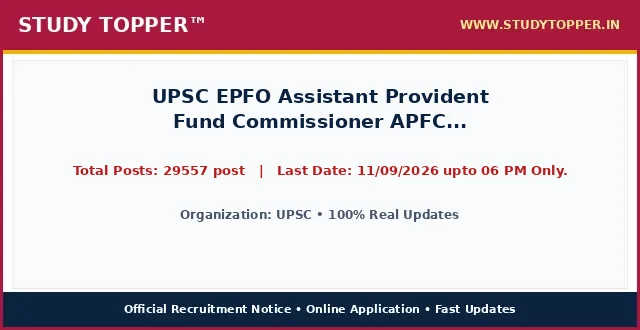
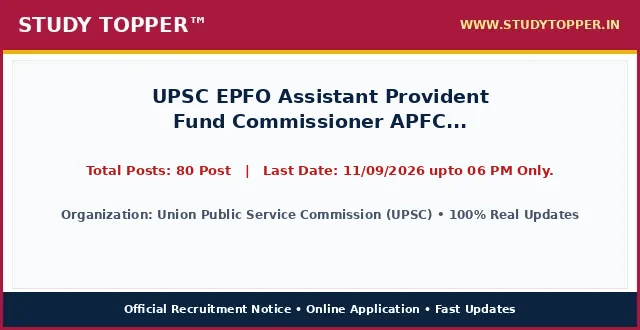
chore(lifecycle): daily auto-sort vacancies and update active dates

Changed region(s): [[0.125, 0.4848, 0.9062, 0.5455], [0.0938, 0.6364, 0.9062, 0.6667]]

diff --git a/pages/upsc-epfo-apfc-august26.html b/pages/upsc-epfo-apfc-august26.html
@@ -987,12 +987,12 @@ ul.wp-block-latest-posts a:hover {
 <main class="site-main" id="main">
 <div class="gb-container gb-container-b39c368c">
 <h1 class="gb-headline gb-headline-e52a0102 gb-headline-text" style="font-size: 22px; font-weight: 700; color: #0000cd; text-align: left; margin: 8px 0 4px 0; line-height: 1.3; width: 100%; font-family: '-apple-system, BlinkMacSystemFont, 'Segoe UI', Roboto, 'Helvetica Neue', Arial, sans-serif', Times, serif, Hind, sans-serif;">UPSC EPFO Assistant Provident Fund Commissioner APFC Recruitment 2026 Apply Online for 80 Post</h1>
-<div class="gb-container gb-container-659bd175"><p style="color: #cd0808; font-weight: 700; font-size: 15px; margin: 2px 0 7px 0; text-align: left; font-family: '-apple-system, BlinkMacSystemFont, 'Segoe UI', Roboto, 'Helvetica Neue', Arial, sans-serif', Times, serif, Hind, sans-serif;">Post Date: August 22, 2026 11:50 AM</p></div>
-<p class="gb-headline gb-headline-550ae316 short_Details gb-headline-text" style="width: 100%; max-width: 100%; font-size: 16.8px; line-height: 1.55; color: #000000; text-align: justify; text-justify: inter-word; margin: 8px 0 14px 0; display: block; font-family: '-apple-system, BlinkMacSystemFont, 'Segoe UI', Roboto, 'Helvetica Neue', Arial, sans-serif', Times, serif, Hind, sans-serif;"><strong style="color: #0000cd;">UPSC</strong> has officially published the recruitment notice <strong style="color: #cd0808;">UPSC EPFO Assistant Provident Fund Commissioner APFC Recruitment 2026 Apply Online for 80 Post</strong> under notification number Official Advt 2026. Online applications are invited for 29557 post across multiple departments and cadre positions. Interested candidates possessing the requisite educational qualifications and falling between 18 Years to 40 Years can complete their online registration before the application deadline of 11/09/2026 upto 06 PM Only.. Applicants should read the eligibility criteria, category reservation rules, and exam scheme thoroughly before submitting applications.</p>
+<div class="gb-container gb-container-659bd175"><p style="color: #cd0808; font-weight: 700; font-size: 15px; margin: 2px 0 7px 0; text-align: left; font-family: '-apple-system, BlinkMacSystemFont, 'Segoe UI', Roboto, 'Helvetica Neue', Arial, sans-serif', Times, serif, Hind, sans-serif;">Post Date: August 22, 2026 12:54 PM</p></div>
+<p class="gb-headline gb-headline-550ae316 short_Details gb-headline-text" style="width: 100%; max-width: 100%; font-size: 16.8px; line-height: 1.55; color: #000000; text-align: justify; text-justify: inter-word; margin: 8px 0 14px 0; display: block; font-family: '-apple-system, BlinkMacSystemFont, 'Segoe UI', Roboto, 'Helvetica Neue', Arial, sans-serif', Times, serif, Hind, sans-serif;"><strong style="color: #0000cd;">Union Public Service Commission (UPSC)</strong> has officially published the recruitment notice <strong style="color: #cd0808;">UPSC EPFO Assistant Provident Fund Commissioner APFC Recruitment 2026 Apply Online for 80 Post</strong> under notification number Official Notification 2026. Online applications are invited for 80 Post across multiple departments and cadre positions. Interested candidates possessing the requisite educational qualifications and falling between 18 Years to 40 Years can complete their online registration before the application deadline of 11/09/2026 upto 06 PM Only.. Applicants should read the eligibility criteria, category reservation rules, and exam scheme thoroughly before submitting applications.</p>
 <div class="gb-container gb-container-9849916c"><div class="social-buttons-compact" style="display: flex; justify-content: flex-start; align-items: center; gap: 10px; margin: 10px 0 16px 0; width: 100%;"><a class="social-btn-compact wa" href="https://whatsapp.com/channel/0029Va9xyz" rel="noopener" style="background-color: #00d084; color: #ffffff; padding: 10px 18px; border-radius: 4px; text-decoration: none; font-weight: bold; font-size: 15.5px; display: inline-flex; align-items: center; justify-content: center; height: auto;" target="_blank">WhatsApp</a><a class="social-btn-compact tg" href="https://t.me/studytopperofficial" rel="noopener" style="background-color: #0088cc; color: #ffffff; padding: 10px 18px; border-radius: 4px; text-decoration: none; font-weight: bold; font-size: 15.5px; display: inline-flex; align-items: center; justify-content: center; height: auto;" target="_blank">Telegram</a></div></div>
 <div class="gb-container gb-container-f58e6ca1" style="border: 2px solid #5b032f; border-radius: 4px; overflow: hidden; margin: 15px 0 20px 0; background-color: #ffffff; width: 100%; box-sizing: border-box;">
 <h2 class="gb-headline gb-headline-2ca5a791 gb-headline-text" style="font-size: 16px; font-weight: 700; text-align: center; color: #ef0303; line-height: 1.3; padding: 6px 4px; margin: 0; background: #ffffff; font-family: '-apple-system, BlinkMacSystemFont, 'Segoe UI', Roboto, 'Helvetica Neue', Arial, sans-serif', Times, serif, Hind, sans-serif;">UPSC EPFO Assistant Provident Fund Commissioner APFC Recruitment 2026 Apply Online for 80 Post &ndash; Latest Details &amp; Updates</h2>
-<h3 class="gb-headline gb-headline-7d5f86e8 gb-headline-text" style="font-size: 16px; font-weight: 600; text-align: center; color: #009703; line-height: 1.25; margin: 0; padding: 2px 4px 6px 4px; background: #ffffff; font-family: '-apple-system, BlinkMacSystemFont, 'Segoe UI', Roboto, 'Helvetica Neue', Arial, sans-serif', Times, serif, Hind, sans-serif;">UPSC : Details &amp; Summary</h3>
+<h3 class="gb-headline gb-headline-7d5f86e8 gb-headline-text" style="font-size: 16px; font-weight: 600; text-align: center; color: #009703; line-height: 1.25; margin: 0; padding: 2px 4px 6px 4px; background: #ffffff; font-family: '-apple-system, BlinkMacSystemFont, 'Segoe UI', Roboto, 'Helvetica Neue', Arial, sans-serif', Times, serif, Hind, sans-serif;">Union Public Service Commission (UPSC) : Details &amp; Summary</h3>
 <p class="gb-headline gb-headline-79adf169 gb-headline-text" style="margin: 0 0 6px 0; font-family: '-apple-system, BlinkMacSystemFont, 'Segoe UI', Roboto, 'Helvetica Neue', Arial, sans-serif', Times, serif, Hind, sans-serif; text-align: center; font-size: 18px; font-weight: 700;"><a href="/" style="color: #0000ff; text-decoration: underline;">StudyTopper.in</a></p>
 
 <style id="st-post-boxes-responsive-css">
@@ -1034,7 +1034,7 @@ ul.wp-block-latest-posts a:hover {
     <div style="background-color: #5b032f; color: #ffffff; padding: 8px 10px; font-size: 20px; font-weight: 700; text-align: center; font-family: '-apple-system, BlinkMacSystemFont, 'Segoe UI', Roboto, 'Helvetica Neue', Arial, sans-serif', Times, serif, Hind, sans-serif;">Application Fee</div>
     <div style="padding: 12px 14px; background-color: #ffffff;">
       <ul style="padding-left: 20px; margin: 0; list-style-type: disc; text-align: left; font-size: 14pt; line-height: 1.6; font-family: '-apple-system, BlinkMacSystemFont, 'Segoe UI', Roboto, 'Helvetica Neue', Arial, sans-serif', Times, serif, Hind, sans-serif;">
-        <li><span style="font-size: 14pt;">General / OBC / EWS : <strong>25/-</strong></span></li><li><span style="font-size: 14pt;">SC / ST / PH : <strong>0/-</strong></span></li>
+        <li><span style="font-size: 14pt;">General / OBC / EWS : <strong>25/-</strong></span></li><li><span style="font-size: 14pt;">SC / ST / PH : <strong>0/-</strong></span></li><li><span style="font-size: 14pt;">Payment Mode : <strong>Pay the Exam Fee Through Online / Offline Fee Mode Only</strong></span></li>
       </ul>
       <div style="margin-top: 10px; font-size: 14pt; line-height: 1.5; color: #000000; border-top: 1px dashed #ccc; padding-top: 8px; font-family: '-apple-system, BlinkMacSystemFont, 'Segoe UI', Roboto, 'Helvetica Neue', Arial, sans-serif', Times, serif, Hind, sans-serif;">
         <strong>Mode of Payment / Access:</strong> Online via Net Banking, Debit Card, Credit Card, UPI or Free Candidate Portal.
@@ -1047,10 +1047,10 @@ ul.wp-block-latest-posts a:hover {
 <div class="st-grid-row" style="display: flex; flex-wrap: wrap; width: 100%; border-top: 2px solid #5b032f; margin: 0; padding: 0; box-sizing: border-box;">
   <!-- Left Col: Age Limits -->
   <div class="st-col-half st-col-border-right" style="box-sizing: border-box; vertical-align: top;">
-    <div style="background-color: #046132; color: #ffffff; padding: 8px 10px; font-size: 17px; font-weight: 700; text-align: center; font-family: '-apple-system, BlinkMacSystemFont, 'Segoe UI', Roboto, 'Helvetica Neue', Arial, sans-serif', Times, serif, Hind, sans-serif;">UPSC : Age Limits As On 01 August 2026</div>
+    <div style="background-color: #046132; color: #ffffff; padding: 8px 10px; font-size: 17px; font-weight: 700; text-align: center; font-family: '-apple-system, BlinkMacSystemFont, 'Segoe UI', Roboto, 'Helvetica Neue', Arial, sans-serif', Times, serif, Hind, sans-serif;">Union Public Service Commission (UPSC) : Age Limits As On 01/08/2026</div>
     <div style="padding: 12px 14px; background-color: #ffffff;">
       <ul style="padding-left: 20px; margin: 0; list-style-type: disc; text-align: left; font-size: 14pt; line-height: 1.6; font-family: '-apple-system, BlinkMacSystemFont, 'Segoe UI', Roboto, 'Helvetica Neue', Arial, sans-serif', Times, serif, Hind, sans-serif;">
-        <li><span style="font-size: 14pt;">Minimum Age : <strong>NA</strong></span></li><li><span style="font-size: 14pt;">Maximum Age : <strong>35 Years</strong></span></li>
+        <li><span style="font-size: 14pt;">Minimum Age : <strong>NA</strong></span></li><li><span style="font-size: 14pt;">Maximum Age : <strong>35 Years</strong></span></li><li><span style="font-size: 14pt;">Age Relaxation : <strong>Age Relaxation Extra as per UPSC EPFO Assistant Provident Fund Commissioner APFC Examination Rules Special Advt. No 52/2026.</strong></span></li>
       </ul>
     </div>
   </div>
@@ -1058,7 +1058,7 @@ ul.wp-block-latest-posts a:hover {
   <div class="st-col-half" style="box-sizing: border-box; vertical-align: top;">
     <div style="background-color: #f53c00; color: #ffffff; padding: 8px 10px; font-size: 20px; font-weight: 700; text-align: center; font-family: '-apple-system, BlinkMacSystemFont, 'Segoe UI', Roboto, 'Helvetica Neue', Arial, sans-serif', Times, serif, Hind, sans-serif;">Total Post</div>
     <div style="padding: 24px 10px; background-color: #ffffff; text-align: center;">
-      <span style="font-size: 28px; font-weight: 800; color: #000000; font-family: '-apple-system, BlinkMacSystemFont, 'Segoe UI', Roboto, 'Helvetica Neue', Arial, sans-serif', Times, serif, Hind, sans-serif;">29557 post</span>
+      <span style="font-size: 28px; font-weight: 800; color: #000000; font-family: '-apple-system, BlinkMacSystemFont, 'Segoe UI', Roboto, 'Helvetica Neue', Arial, sans-serif', Times, serif, Hind, sans-serif;">80 Post</span>
     </div>
   </div>
 </div>
@@ -1073,13 +1073,13 @@ ul.wp-block-latest-posts a:hover {
 <table style="border-collapse: collapse; width: 100%; height: 150px;">
 <tbody>
 <tr style="height: 25px;">
-<td colspan="2" style="width: 50%; text-align: center; height: 25px;"><span style="background-color: #000080; color: #ffffff; font-size: 14pt;"><strong> UPSC : Category Wise Vacancy Details </strong></span></td>
+<td colspan="2" style="width: 50%; text-align: center; height: 25px;"><span style="background-color: #000080; color: #ffffff; font-size: 14pt;"><strong> Union Public Service Commission (UPSC) : Category Wise Vacancy Details </strong></span></td>
 </tr>
 <tr style="height: 25px;">
 <td style="width: 50%; height: 25px; text-align: center;"><span style="font-size: 14pt;"><strong>Category / Particulars</strong></span></td>
 <td style="width: 50%; height: 25px; text-align: center;"><span style="font-size: 14pt;"><strong>Count / Status</strong></span></td>
 </tr>
-<tr><td style="text-align: center;">UR</td><td style="text-align: center; font-weight: normal; color: inherit;">29</td></tr><tr><td style="text-align: center;">OBC</td><td style="text-align: center; font-weight: normal; color: inherit;">18</td></tr><tr><td style="text-align: center;">EWS</td><td style="text-align: center; font-weight: normal; color: inherit;">08</td></tr><tr><td style="text-align: center;">SC</td><td style="text-align: center; font-weight: normal; color: inherit;">15</td></tr><tr><td style="text-align: center;">ST</td><td style="text-align: center; font-weight: normal; color: inherit;">10</td></tr><tr><td style="text-align: center;">Total</td><td style="text-align: center; font-weight: bold; color: #ff0000;">80</td></tr>
+<tr><td style="text-align: center;">Total Post</td><td style="text-align: center; font-weight: bold; color: #ff0000;">80</td></tr><tr><td style="text-align: center;">UPSC EPFO APFC Eligibility</td><td style="text-align: center; font-weight: normal; color: inherit;">Bachelor Degree in Any Stream from Any Recognized University in India.</td></tr><tr><td style="text-align: center;">UR</td><td style="text-align: center; font-weight: normal; color: inherit;">29</td></tr><tr><td style="text-align: center;">OBC</td><td style="text-align: center; font-weight: normal; color: inherit;">18</td></tr><tr><td style="text-align: center;">EWS</td><td style="text-align: center; font-weight: normal; color: inherit;">08</td></tr><tr><td style="text-align: center;">SC</td><td style="text-align: center; font-weight: normal; color: inherit;">15</td></tr><tr><td style="text-align: center;">ST</td><td style="text-align: center; font-weight: normal; color: inherit;">10</td></tr><tr><td style="text-align: center;">Total</td><td style="text-align: center; font-weight: bold; color: #ff0000;">80</td></tr>
 </tbody>
 </table>
 <p>&nbsp;</p>
@@ -1105,10 +1105,10 @@ ul.wp-block-latest-posts a:hover {
 <table style="border-collapse: collapse; width: 100%;">
 <tbody>
 <tr>
-<td style="width: 100%; text-align: center;"><span style="background-color: #000080; color: #ffffff; font-size: 14pt; font-weight: bold; display: block; padding: 6px;"> How to Fill UPSC Online Application Form </span></td>
+<td style="width: 100%; text-align: center;"><span style="background-color: #000080; color: #ffffff; font-size: 14pt; font-weight: bold; display: block; padding: 6px;"> How to Fill Union Public Service Commission (UPSC) Online Application Form </span></td>
 </tr>
 <tr>
-<td style="width: 100%;"><ol style="margin:0; padding-left:18px; text-align: left !important; list-style-position: outside !important"><li style="margin-bottom:6px; text-align: left !important;">22/08/2026 to 11/09/2026.</li><li style="margin-bottom:6px; text-align: left !important;">Kindly Check and Collect the All Document – Hand Writing, Eligibility, ID Proof, Address Details, Basic Details.</li><li style="margin-bottom:6px; text-align: left !important;">Kindly Ready Scan Document Related to Recruitment Form – Photo, Sign, ID, Thumb, Proof, Etc.</li><li style="margin-bottom:6px; text-align: left !important;">Before Submit the Application Form Must Check the Preview and All Column Carefully.</li><li style="margin-bottom:6px; text-align: left !important;">If Candidate Required to Paying the Application Fee Must Submit. If You have Not the Required Application Fees Your Form is Not Completed.</li><li style="margin-bottom:6px; text-align: left !important;">Take A Print Out of Final Submitted Form.</li><li style="margin-bottom:6px; text-align: left !important;">Resize candidate photograph and signature accurately using the <a href="https://indtool.in" rel="noopener" target="_blank"><strong>StudyTopper Tools</strong></a> image resizer at indtool.in.</li></ol></td>
+<td style="width: 100%;"><ol style="margin:0; padding-left:18px; text-align: left !important; list-style-position: outside !important"><li style="margin-bottom:6px; text-align: left !important;">Union Public Service Commission (UPSC) Are Issued EPFO APFC Examination 2026. Notification and Invited Online Application Form for the UPSC EPFO Assistant Provident Fund Commissioner APFC Recruitment 2026 Candidate Can Apply Online for</li><li style="margin-bottom:6px; text-align: left !important;">22/08/2026 to 11/09/2026.</li><li style="margin-bottom:6px; text-align: left !important;">Kindly Check and Collect the All Document – Hand Writing, Eligibility, ID Proof, Address Details, Basic Details.</li><li style="margin-bottom:6px; text-align: left !important;">Kindly Ready Scan Document Related to Recruitment Form – Photo, Sign, ID, Thumb, Proof, Etc.</li><li style="margin-bottom:6px; text-align: left !important;">Before Submit the Application Form Must Check the Preview and All Column Carefully.</li><li style="margin-bottom:6px; text-align: left !important;">If Candidate Required to Paying the Application Fee Must Submit. If You have Not the Required Application Fees Your Form is Not Completed.</li><li style="margin-bottom:6px; text-align: left !important;">Take A Print Out of Final Submitted Form.</li><li style="margin-bottom:6px; text-align: left !important;">Resize candidate photograph and signature accurately using the <a href="https://indtool.in" rel="noopener" target="_blank"><strong>StudyTopper Tools</strong></a> image resizer at indtool.in.</li></ol></td>
 </tr>
 </tbody>
 </table>
@@ -1116,7 +1116,7 @@ ul.wp-block-latest-posts a:hover {
 <table style="border-collapse: collapse; width: 100%;">
 <tbody>
 <tr>
-<td style="width: 100%; text-align: center;"><span style="background-color: #000080; color: #ffffff; font-size: 14pt;"><strong><span style="color: #ffffff;"> UPSC Recruitment 2026 : Mode Of Selection </span></strong></span></td>
+<td style="width: 100%; text-align: center;"><span style="background-color: #000080; color: #ffffff; font-size: 14pt;"><strong><span style="color: #ffffff;"> Union Public Service Commission (UPSC) Recruitment 2026 : Mode Of Selection </span></strong></span></td>
 </tr>
 <tr>
 <td style="width: 100%;">
@@ -1156,42 +1156,74 @@ ul.wp-block-latest-posts a:hover {
 
 <tr style="border-bottom: 1px solid #000000; background-color: #fff37a;">
 <td style="width: 50%; padding: 14px 16px; border-right: 1px solid #000000; text-align: center;">
-<span style="font-size: 19px; font-weight: 800; color: #000000; font-family: '-apple-system, BlinkMacSystemFont, 'Segoe UI', Roboto, 'Helvetica Neue', Arial, sans-serif', Times, serif, Hind, sans-serif;">Apply Online Link</span>
+<span style="font-size: 19px; font-weight: 800; color: #000000; font-family: '-apple-system, BlinkMacSystemFont, 'Segoe UI', Roboto, 'Helvetica Neue', Arial, sans-serif', Times, serif, Hind, sans-serif;">Sarkari Result Android App</span>
 </td>
 <td style="width: 50%; padding: 14px 16px; text-align: center;">
-<span style="font-size: 20px; font-weight: 800; font-family: '-apple-system, BlinkMacSystemFont, 'Segoe UI', Roboto, 'Helvetica Neue', Arial, sans-serif', Times, serif, Hind, sans-serif;"><a href="https://www.upsc.gov.in/" aria-label="Click Here for Apply Online Link - UPSC EPFO Assistant Provident Fund Commissioner APFC Recruitment 2026 Apply Online for 80 Post" rel="noopener noreferrer" style="color: #0000ef; font-weight: 800; text-decoration: none;" target="_blank">Click Here</a></span>
+<span style="font-size: 20px; font-weight: 800; font-family: '-apple-system, BlinkMacSystemFont, 'Segoe UI', Roboto, 'Helvetica Neue', Arial, sans-serif', Times, serif, Hind, sans-serif;"><a href="https://itunes.apple.com/us/app/sarkari-result/id1051363935?ls=1&mt=8" aria-label="Click Here for Sarkari Result Android App - UPSC EPFO Assistant Provident Fund Commissioner APFC Recruitment 2026 Apply Online for 80 Post" rel="noopener noreferrer" style="color: #0000ef; font-weight: 800; text-decoration: none;" target="_blank">Click Here</a></span>
 </td>
 </tr>
 <tr style="border-bottom: 1px solid #000000; background-color: #fff37a;">
 <td style="width: 50%; padding: 14px 16px; border-right: 1px solid #000000; text-align: center;">
-<span style="font-size: 19px; font-weight: 800; color: #000000; font-family: '-apple-system, BlinkMacSystemFont, 'Segoe UI', Roboto, 'Helvetica Neue', Arial, sans-serif', Times, serif, Hind, sans-serif;">Check Official Notification</span>
+<span style="font-size: 19px; font-weight: 800; color: #000000; font-family: '-apple-system, BlinkMacSystemFont, 'Segoe UI', Roboto, 'Helvetica Neue', Arial, sans-serif', Times, serif, Hind, sans-serif;">Apply Online</span>
 </td>
 <td style="width: 50%; padding: 14px 16px; text-align: center;">
-<span style="font-size: 20px; font-weight: 800; font-family: '-apple-system, BlinkMacSystemFont, 'Segoe UI', Roboto, 'Helvetica Neue', Arial, sans-serif', Times, serif, Hind, sans-serif;"><a href="https://www.upsc.gov.in/" aria-label="Click Here for Check Official Notification - UPSC EPFO Assistant Provident Fund Commissioner APFC Recruitment 2026 Apply Online for 80 Post" rel="noopener noreferrer" style="color: #0000ef; font-weight: 800; text-decoration: none;" target="_blank">Click Here</a></span>
+<span style="font-size: 20px; font-weight: 800; font-family: '-apple-system, BlinkMacSystemFont, 'Segoe UI', Roboto, 'Helvetica Neue', Arial, sans-serif', Times, serif, Hind, sans-serif;"><a href="https://upsconline.nic.in/ora/" aria-label="Click Here for Apply Online - UPSC EPFO Assistant Provident Fund Commissioner APFC Recruitment 2026 Apply Online for 80 Post" rel="noopener noreferrer" style="color: #0000ef; font-weight: 800; text-decoration: none;" target="_blank">Click Here</a></span>
 </td>
 </tr>
 <tr style="border-bottom: 1px solid #000000; background-color: #fff37a;">
 <td style="width: 50%; padding: 14px 16px; border-right: 1px solid #000000; text-align: center;">
-<span style="font-size: 19px; font-weight: 800; color: #000000; font-family: '-apple-system, BlinkMacSystemFont, 'Segoe UI', Roboto, 'Helvetica Neue', Arial, sans-serif', Times, serif, Hind, sans-serif;">Photo / Sign Resizer Tool</span>
+<span style="font-size: 19px; font-weight: 800; color: #000000; font-family: '-apple-system, BlinkMacSystemFont, 'Segoe UI', Roboto, 'Helvetica Neue', Arial, sans-serif', Times, serif, Hind, sans-serif;">Download Syllabus</span>
 </td>
 <td style="width: 50%; padding: 14px 16px; text-align: center;">
-<span style="font-size: 20px; font-weight: 800; font-family: '-apple-system, BlinkMacSystemFont, 'Segoe UI', Roboto, 'Helvetica Neue', Arial, sans-serif', Times, serif, Hind, sans-serif;"><a href="https://indtool.in" aria-label="Click Here for Photo / Sign Resizer Tool - UPSC EPFO Assistant Provident Fund Commissioner APFC Recruitment 2026 Apply Online for 80 Post" rel="noopener noreferrer" style="color: #0000ef; font-weight: 800; text-decoration: none;" target="_blank">Click Here</a></span>
+<span style="font-size: 20px; font-weight: 800; font-family: '-apple-system, BlinkMacSystemFont, 'Segoe UI', Roboto, 'Helvetica Neue', Arial, sans-serif', Times, serif, Hind, sans-serif;"><a href="https://doc.sarkariresults.org.in/UPSC_EPFO_APFC_Syllabus_SarkariResult_Com%20(1).pdf" aria-label="Click Here for Download Syllabus - UPSC EPFO Assistant Provident Fund Commissioner APFC Recruitment 2026 Apply Online for 80 Post" rel="noopener noreferrer" style="color: #0000ef; font-weight: 800; text-decoration: none;" target="_blank">Click Here</a></span>
 </td>
 </tr>
 <tr style="border-bottom: 1px solid #000000; background-color: #fff37a;">
+<td style="width: 50%; padding: 14px 16px; border-right: 1px solid #000000; text-align: center;">
+<span style="font-size: 19px; font-weight: 800; color: #000000; font-family: '-apple-system, BlinkMacSystemFont, 'Segoe UI', Roboto, 'Helvetica Neue', Arial, sans-serif', Times, serif, Hind, sans-serif;">Download Notification</span>
+</td>
+<td style="width: 50%; padding: 14px 16px; text-align: center;">
+<span style="font-size: 20px; font-weight: 800; font-family: '-apple-system, BlinkMacSystemFont, 'Segoe UI', Roboto, 'Helvetica Neue', Arial, sans-serif', Times, serif, Hind, sans-serif;"><a href="https://doc.sarkariresults.org.in/UPSC_EPFO_APFC_AdvtNo-52-2026-Special-Engl-210826.pdf" aria-label="Click Here for Download Notification - UPSC EPFO Assistant Provident Fund Commissioner APFC Recruitment 2026 Apply Online for 80 Post" rel="noopener noreferrer" style="color: #0000ef; font-weight: 800; text-decoration: none;" target="_blank">Click Here</a></span>
+</td>
+</tr>
+<tr style="border-bottom: 1px solid #000000; background-color: #fff37a;">
+<td style="width: 50%; padding: 14px 16px; border-right: 1px solid #000000; text-align: center;">
+<span style="font-size: 19px; font-weight: 800; color: #000000; font-family: '-apple-system, BlinkMacSystemFont, 'Segoe UI', Roboto, 'Helvetica Neue', Arial, sans-serif', Times, serif, Hind, sans-serif;">Signature Resizer, PDF Compress, Age Calculator and More Tools</span>
+</td>
+<td style="width: 50%; padding: 14px 16px; text-align: center;">
+<span style="font-size: 20px; font-weight: 800; font-family: '-apple-system, BlinkMacSystemFont, 'Segoe UI', Roboto, 'Helvetica Neue', Arial, sans-serif', Times, serif, Hind, sans-serif;"><a href="https://sarkariresultportal.com/" aria-label="Click Here for Signature Resizer, PDF Compress, Age Calculator and More Tools - UPSC EPFO Assistant Provident Fund Commissioner APFC Recruitment 2026 Apply Online for 80 Post" rel="noopener noreferrer" style="color: #0000ef; font-weight: 800; text-decoration: none;" target="_blank">Click Here</a></span>
+</td>
+</tr>
+<tr style="border-bottom: 1px solid #000000; background-color: #fff37a;">
+<td style="width: 50%; padding: 14px 16px; border-right: 1px solid #000000; text-align: center;">
+<span style="font-size: 19px; font-weight: 800; color: #000000; font-family: '-apple-system, BlinkMacSystemFont, 'Segoe UI', Roboto, 'Helvetica Neue', Arial, sans-serif', Times, serif, Hind, sans-serif;">Join Sarkari Result Channel</span>
+</td>
+<td style="width: 50%; padding: 14px 16px; text-align: center;">
+<span style="font-size: 20px; font-weight: 800; font-family: '-apple-system, BlinkMacSystemFont, 'Segoe UI', Roboto, 'Helvetica Neue', Arial, sans-serif', Times, serif, Hind, sans-serif;"><a href="https://t.me/SarkariResult2012" aria-label="Click Here for Join Sarkari Result Channel - UPSC EPFO Assistant Provident Fund Commissioner APFC Recruitment 2026 Apply Online for 80 Post" rel="noopener noreferrer" style="color: #0000ef; font-weight: 800; text-decoration: none;" target="_blank">Click Here</a></span>
+</td>
+</tr>
+<tr style="border-bottom: 1px solid #000000; background-color: #fff37a;">
+<td style="width: 50%; padding: 14px 16px; border-right: 1px solid #000000; text-align: center;">
+<span style="font-size: 19px; font-weight: 800; color: #000000; font-family: '-apple-system, BlinkMacSystemFont, 'Segoe UI', Roboto, 'Helvetica Neue', Arial, sans-serif', Times, serif, Hind, sans-serif;">Join Sarkari Result Channel</span>
+</td>
+<td style="width: 50%; padding: 14px 16px; text-align: center;">
+<span style="font-size: 20px; font-weight: 800; font-family: '-apple-system, BlinkMacSystemFont, 'Segoe UI', Roboto, 'Helvetica Neue', Arial, sans-serif', Times, serif, Hind, sans-serif;"><a href="https://whatsapp.com/channel/0029Va5IElwBlHpVBd6i5a18" aria-label="Click Here for Join Sarkari Result Channel - UPSC EPFO Assistant Provident Fund Commissioner APFC Recruitment 2026 Apply Online for 80 Post" rel="noopener noreferrer" style="color: #0000ef; font-weight: 800; text-decoration: none;" target="_blank">Click Here</a></span>
+</td>
+</tr>
+<tr style="border-bottom: 1px solid #000000; background-color: #fff37a;">
+<td style="width: 50%; padding: 14px 16px; border-right: 1px solid #000000; text-align: center;">
+<span style="font-size: 19px; font-weight: 800; color: #000000; font-family: '-apple-system, BlinkMacSystemFont, 'Segoe UI', Roboto, 'Helvetica Neue', Arial, sans-serif', Times, serif, Hind, sans-serif;">Official Website</span>
+</td>
+<td style="width: 50%; padding: 14px 16px; text-align: center;">
+<span style="font-size: 20px; font-weight: 800; font-family: '-apple-system, BlinkMacSystemFont, 'Segoe UI', Roboto, 'Helvetica Neue', Arial, sans-serif', Times, serif, Hind, sans-serif;"><a href="https://www.upsc.gov.in/" aria-label="Click Here for Official Website - UPSC EPFO Assistant Provident Fund Commissioner APFC Recruitment 2026 Apply Online for 80 Post" rel="noopener noreferrer" style="color: #0000ef; font-weight: 800; text-decoration: none;" target="_blank">Click Here</a></span>
+</td>
+</tr>
+<tr style=" background-color: #fff37a;">
 <td style="width: 50%; padding: 14px 16px; border-right: 1px solid #000000; text-align: center;">
 <span style="font-size: 19px; font-weight: 800; color: #000000; font-family: '-apple-system, BlinkMacSystemFont, 'Segoe UI', Roboto, 'Helvetica Neue', Arial, sans-serif', Times, serif, Hind, sans-serif;">Check Sarkari Result</span>
 </td>
 <td style="width: 50%; padding: 14px 16px; text-align: center;">
 <span style="font-size: 20px; font-weight: 800; font-family: '-apple-system, BlinkMacSystemFont, 'Segoe UI', Roboto, 'Helvetica Neue', Arial, sans-serif', Times, serif, Hind, sans-serif;"><a href="/" aria-label="Click Here for Check Sarkari Result - UPSC EPFO Assistant Provident Fund Commissioner APFC Recruitment 2026 Apply Online for 80 Post" rel="noopener noreferrer" style="color: #0000ef; font-weight: 800; text-decoration: none;" >Click Here</a></span>
-</td>
-</tr>
-<tr style=" background-color: #fff37a;">
-<td style="width: 50%; padding: 14px 16px; border-right: 1px solid #000000; text-align: center;">
-<span style="font-size: 19px; font-weight: 800; color: #000000; font-family: '-apple-system, BlinkMacSystemFont, 'Segoe UI', Roboto, 'Helvetica Neue', Arial, sans-serif', Times, serif, Hind, sans-serif;">UPSC Website</span>
-</td>
-<td style="width: 50%; padding: 14px 16px; text-align: center;">
-<span style="font-size: 20px; font-weight: 800; font-family: '-apple-system, BlinkMacSystemFont, 'Segoe UI', Roboto, 'Helvetica Neue', Arial, sans-serif', Times, serif, Hind, sans-serif;"><a href="https://www.upsc.gov.in/" aria-label="Click Here for UPSC Website - UPSC EPFO Assistant Provident Fund Commissioner APFC Recruitment 2026 Apply Online for 80 Post" rel="noopener noreferrer" style="color: #0000ef; font-weight: 800; text-decoration: none;" target="_blank">Click Here</a></span>
 </td>
 </tr>
 </tbody>
@@ -1205,9 +1237,9 @@ ul.wp-block-latest-posts a:hover {
   <div style="font-size: 14.5px; line-height: 1.65; color: #222222;">
     <p style="margin: 0 0 4px 0;"><strong style="color: #000080;">Q1. What is the last date to apply for UPSC EPFO Assistant Provident Fund Commissioner APFC Recruitment 2026 Apply Online for 80 Post?</strong></p>
 <p style="margin: 0 0 16px 0; color: #333333; line-height: 1.6;">Ans. The last date for online submission of application is 11/09/2026 upto 06 PM Only..</p><p style="margin: 0 0 4px 0;"><strong style="color: #000080;">Q2. What is the age limit for UPSC EPFO Assistant Provident Fund Commissioner APFC Recruitment 2026 Apply Online for 80 Post?</strong></p>
-<p style="margin: 0 0 16px 0; color: #333333; line-height: 1.6;">Ans. Candidate age should generally be between 18 Years and 40 Years as on 01 August 2026. Age relaxation is applicable per rules.</p><p style="margin: 0 0 4px 0;"><strong style="color: #000080;">Q3. What is the application fee for UPSC EPFO Assistant Provident Fund Commissioner APFC Recruitment 2026 Apply Online for 80 Post?</strong></p>
+<p style="margin: 0 0 16px 0; color: #333333; line-height: 1.6;">Ans. Candidate age should generally be between 18 Years and 40 Years as on 01/08/2026. Age relaxation is applicable per rules.</p><p style="margin: 0 0 4px 0;"><strong style="color: #000080;">Q3. What is the application fee for UPSC EPFO Assistant Provident Fund Commissioner APFC Recruitment 2026 Apply Online for 80 Post?</strong></p>
 <p style="margin: 0 0 16px 0; color: #333333; line-height: 1.6;">Ans. Application fee varies by category (e.g., General/OBC: 25/-, SC/ST/PwD: Exempted).</p><p style="margin: 0 0 4px 0;"><strong style="color: #000080;">Q4. How many total posts are available in UPSC EPFO Assistant Provident Fund Commissioner APFC Recruitment 2026 Apply Online for 80 Post?</strong></p>
-<p style="margin: 0 0 16px 0; color: #333333; line-height: 1.6;">Ans. A total of 29557 post have been officially announced for this recruitment drive.</p><p style="margin: 0 0 4px 0;"><strong style="color: #000080;">Q5. How can I apply online for UPSC EPFO Assistant Provident Fund Commissioner APFC Recruitment 2026 Apply Online for 80 Post?</strong></p>
+<p style="margin: 0 0 16px 0; color: #333333; line-height: 1.6;">Ans. A total of 80 Post have been officially announced for this recruitment drive.</p><p style="margin: 0 0 4px 0;"><strong style="color: #000080;">Q5. How can I apply online for UPSC EPFO Assistant Provident Fund Commissioner APFC Recruitment 2026 Apply Online for 80 Post?</strong></p>
 <p style="margin: 0 0 0 0; color: #333333; line-height: 1.6;">Ans. Eligible candidates can click the 'Apply Online' link in the Important Links table, register, fill details, resize photo/signature via indtool.in, and submit before 11/09/2026 upto 06 PM Only..</p>
   </div>
 </div>
